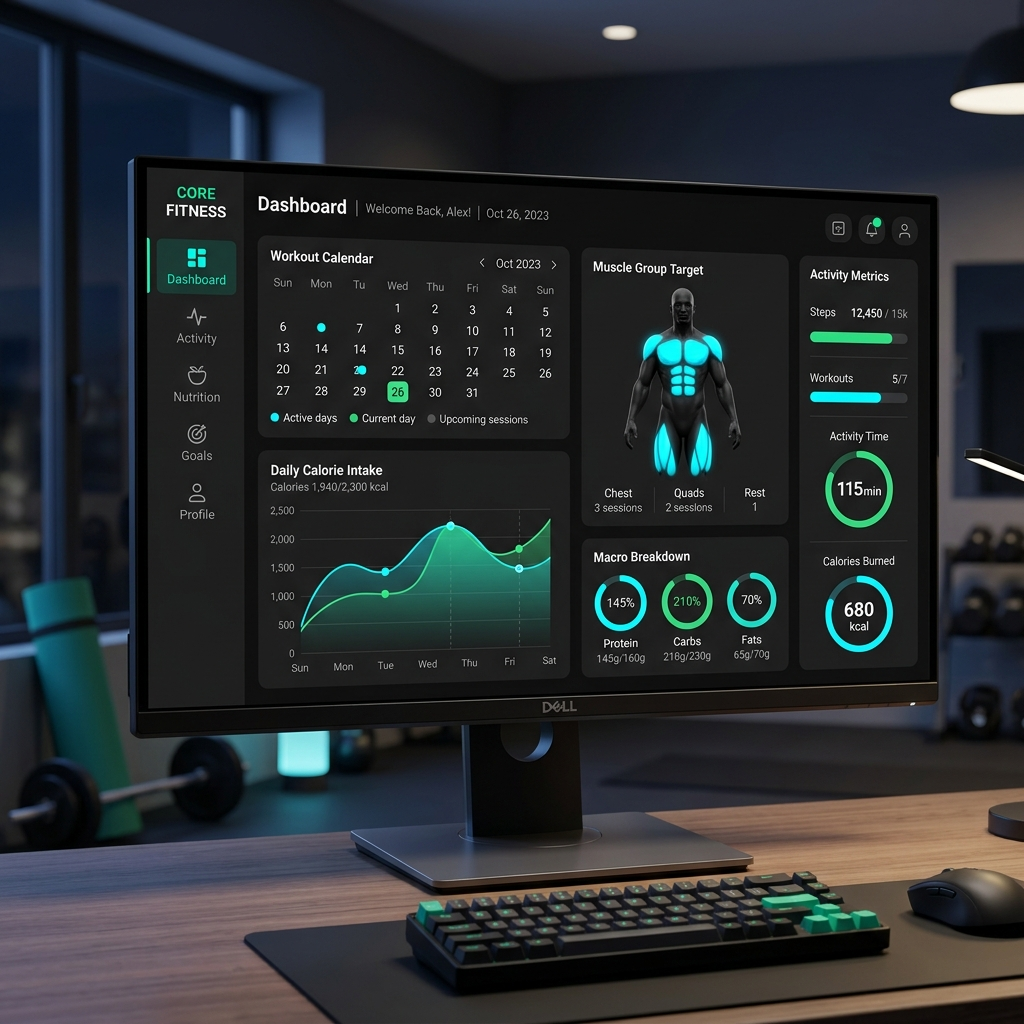
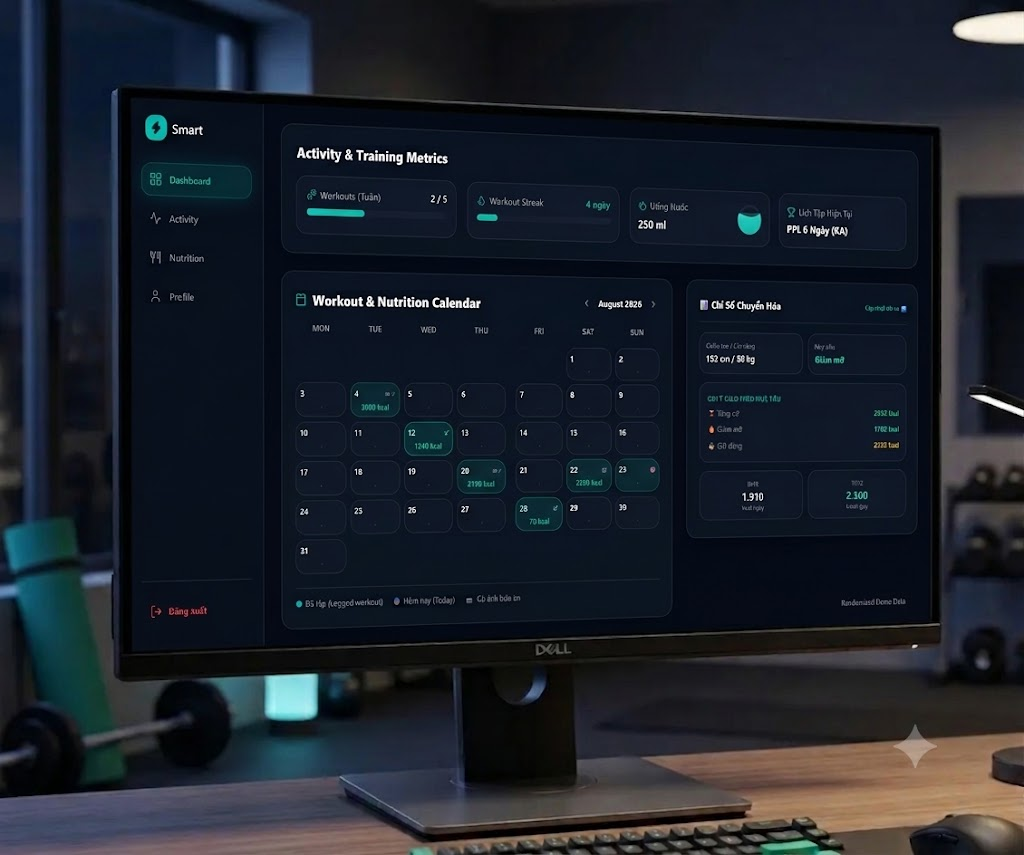
feat: refine landing page UI, update hero preview, and redirect logout to homepage

diff --git a/frontend/src/components/smart/features.tsx b/frontend/src/components/smart/features.tsx
@@ -1,33 +1,26 @@
-import { Apple, Dumbbell, LineChart, Target } from "lucide-react";
+import { Apple, Dumbbell, LineChart } from "lucide-react";
 
 const features = [
   {
     icon: Apple,
-    title: "Nhật ký ăn uống thông minh",
+    title: "Dinh dưỡng & Quét mã vạch",
     description:
-      "Ghi lại mọi bữa ăn với cơ sở dữ liệu món Việt phong phú. Tự động tính calo, đạm, carb và chất béo theo khẩu phần của bạn.",
-    tags: ["12.000+ món ăn", "Mã vạch quét nhanh"],
+      "Theo dõi lượng Calo, Protein, Carbs và Fat hàng ngày. Tích hợp camera quét mã vạch Barcode thực tế giúp tra cứu và lưu thực phẩm tức thì.",
+    tags: ["Quét Barcode Camera", "Tính Calo & Macro", "Thực phẩm tùy chỉnh"],
   },
   {
     icon: Dumbbell,
-    title: "Lịch tập luyện cá nhân",
+    title: "Lịch tập & Bản đồ cơ bắp 3D",
     description:
-      "Lên kế hoạch buổi tập, ghi nhận số set/rep và theo dõi cường độ. Đồng bộ với đồng hồ thông minh để có dữ liệu chính xác nhất.",
-    tags: ["38 bài tập mẫu", "12 chế độ tập"],
+      "Lên kế hoạch tập luyện cá nhân hóa (PPL, Fullbody...). Tích hợp bản đồ giải phẫu cơ bắp trực quan hóa các nhóm cơ được tác động.",
+    tags: ["Bản đồ cơ bắp 3D", "Lịch tập PPL / Upper-Lower", "Ghi Set, Reps & Mức tạ"],
   },
   {
     icon: LineChart,
-    title: "Theo dõi tiến độ trực quan",
+    title: "Thống kê tiến độ & BMR/TDEE",
     description:
-      "Biểu đồ cân nặng, tỷ lệ mỡ, cơ bắp và BMI giúp bạn nhìn thấy sự thay đổi qua từng tuần, từng tháng.",
-    tags: ["7 chỉ số sức khỏe", "Báo cáo hàng tuần"],
-  },
-  {
-    icon: Target,
-    title: "Mục tiêu & thói quen",
-    description:
-      "Đặt mục tiêu giảm cân, tăng cơ hay duy trì sức khỏe. Smart nhắc nhở và điều chỉnh kế hoạch để bạn không bỏ cuộc giữa chừng.",
-    tags: ["Nhắc nhở thông minh", "Thưởng thành tích"],
+      "Tự động tính toán BMR & TDEE theo mục tiêu thể hình. Biểu đồ theo dõi sự thay đổi Cân nặng, chỉ số BMI và lịch sử tập luyện.",
+    tags: ["Tính BMR & TDEE", "Biểu đồ Cân nặng & BMI", "Lịch sử tập luyện"],
   },
 ];
 
@@ -37,18 +30,17 @@ export function Features() {
       <div className="mx-auto max-w-6xl px-6 py-20 md:py-28">
         <div className="max-w-[44ch]">
           <p className="text-xs font-semibold uppercase tracking-[0.2em] text-primary">
-            Tính năng
+            Tính năng nổi bật
           </p>
           <h2 className="mt-4 text-balance text-3xl font-bold tracking-tight text-foreground md:text-5xl">
-            Mọi thứ bạn cần để kiểm soát cơ thể
+            Kiểm soát sức khỏe & tập luyện thông minh
           </h2>
           <p className="mt-4 text-lg text-muted-foreground">
-            Không cần ứng dụng rời rạc. Smart tập hợp dinh dưỡng, tập luyện và
-            tiến độ vào một nơi duy nhất.
+            Smart kết hợp theo dõi dinh dưỡng, phân tích nhóm cơ tập luyện và đo lường tiến độ vào một nền tảng duy nhất.
           </p>
         </div>
 
-        <div className="mt-14 grid gap-4 sm:grid-cols-2 lg:grid-cols-4">
+        <div className="mt-14 grid gap-6 sm:grid-cols-2 lg:grid-cols-3">
           {features.map((feature, index) => (
             <div
               key={feature.title}
@@ -81,3 +73,5 @@ export function Features() {
     </section>
   );
 }
+
+

diff --git a/frontend/src/components/smart/testimonial.tsx b/frontend/src/components/smart/testimonial.tsx
@@ -5,7 +5,7 @@ export function Testimonial() {
     <section id="testimonial" className="border-t border-border">
       <div className="mx-auto max-w-4xl px-6 py-20 text-center md:py-28">
         <p className="text-xs font-semibold uppercase tracking-[0.2em] text-primary">
-          Cộng đồng
+          Đánh giá từ người dùng
         </p>
 
         <div className="mx-auto mt-6 flex justify-center gap-1 text-primary">
@@ -14,9 +14,8 @@ export function Testimonial() {
           ))}
         </div>
 
-        <blockquote className="mx-auto mt-8 max-w-[36ch] text-balance text-2xl font-medium leading-snug tracking-tight text-foreground md:text-4xl">
-          “Smart giúp tôi nhìn thấy sự tiến bộ từng ngày. Lần đầu tiên tôi duy
-          trì được thói quen tập luyện suốt 6 tháng.”
+        <blockquote className="mx-auto mt-8 max-w-[38ch] text-balance text-2xl font-medium leading-snug tracking-tight text-foreground md:text-3xl">
+          “Tính năng quét mã vạch tra calo và bản đồ cơ bắp trực quan giúp tôi biết chính xác buổi tập tác động vào đâu và ăn uống chuẩn hơn mỗi ngày.”
         </blockquote>
 
         <div className="mt-10 flex items-center justify-center gap-3">
@@ -26,7 +25,7 @@ export function Testimonial() {
           <div className="text-left">
             <p className="text-sm font-semibold text-foreground">Minh Anh</p>
             <p className="text-xs text-muted-foreground">
-              Huấn luyện viên cá nhân · Hà Nội
+              Người tập Gym & Fitness
             </p>
           </div>
         </div>
@@ -34,3 +33,4 @@ export function Testimonial() {
     </section>
   );
 }
+

diff --git a/frontend/src/components/smart/cta.tsx b/frontend/src/components/smart/cta.tsx
@@ -21,7 +21,7 @@ export function CTA() {
               Bắt đầu hành trình của bạn hôm nay
             </h2>
             <p className="mx-auto mt-5 max-w-[44ch] text-balance text-lg text-muted-foreground">
-              30 ngày miễn phí. Không cần thẻ tín dụng. Hủy bất cứ lúc nào.
+              Miễn phí hoàn toàn. Đăng ký tài khoản và quản lý tập luyện ngay tức thì.
             </p>
 
             <form onSubmit={handleSubmit} className="mx-auto mt-9 flex max-w-md flex-col gap-3 sm:flex-row">
@@ -40,7 +40,7 @@ export function CTA() {
             </form>
 
             <p className="mt-5 text-xs text-muted-foreground">
-              Dùng thử không ràng buộc · Hỗ trợ tiếng Việt
+              Bảo mật tài khoản với JWT Cookie & Email Verification
             </p>
           </div>
         </div>
@@ -48,3 +48,4 @@ export function CTA() {
     </section>
   );
 }
+

diff --git a/frontend/src/components/smart/stats.tsx b/frontend/src/components/smart/stats.tsx
@@ -1,8 +1,14 @@
-const stats = [
-  { value: "120K+", label: "thành viên tại Việt Nam" },
-  { value: "4.9", suffix: "/5", label: "đánh giá trung bình" },
-  { value: "18M+", label: "bữa ăn đã ghi nhận" },
-  { value: "2.4M", label: "bài tập mỗi tuần" },
+interface StatItem {
+  value: string;
+  suffix?: string;
+  label: string;
+}
+
+const stats: StatItem[] = [
+  { value: "100%", label: "Miễn phí trải nghiệm" },
+  { value: "Camera", label: "Quét mã vạch Barcode" },
+  { value: "3D Map", label: "Giải phẫu nhóm cơ" },
+  { value: "BMR/TDEE", label: "Tính toán tự động" },
 ];
 
 export function Stats() {
@@ -33,3 +39,5 @@ export function Stats() {
     </section>
   );
 }
+
+

diff --git a/frontend/src/app/dashboard/admin/layout.tsx b/frontend/src/app/dashboard/admin/layout.tsx
@@ -29,7 +29,7 @@ export default function AdminLayout({ children }: { children: React.ReactNode })
       });
     } catch (e) {}
     localStorage.clear();
-    router.push('/login');
+    router.push('/');
   };
 
   const navItems = [

diff --git a/frontend/src/components/Sidebar.tsx b/frontend/src/components/Sidebar.tsx
@@ -25,7 +25,7 @@ export default function Sidebar() {
       });
     } catch (e) {}
     localStorage.clear();
-    router.push('/login');
+    router.push('/');
   };
 
   return (

diff --git a/frontend/src/components/Header.tsx b/frontend/src/components/Header.tsx
@@ -39,7 +39,7 @@ export default function Header() {
       });
     } catch (e) {}
     localStorage.clear();
-    router.push('/login');
+    router.push('/');
   };
 
   return (
